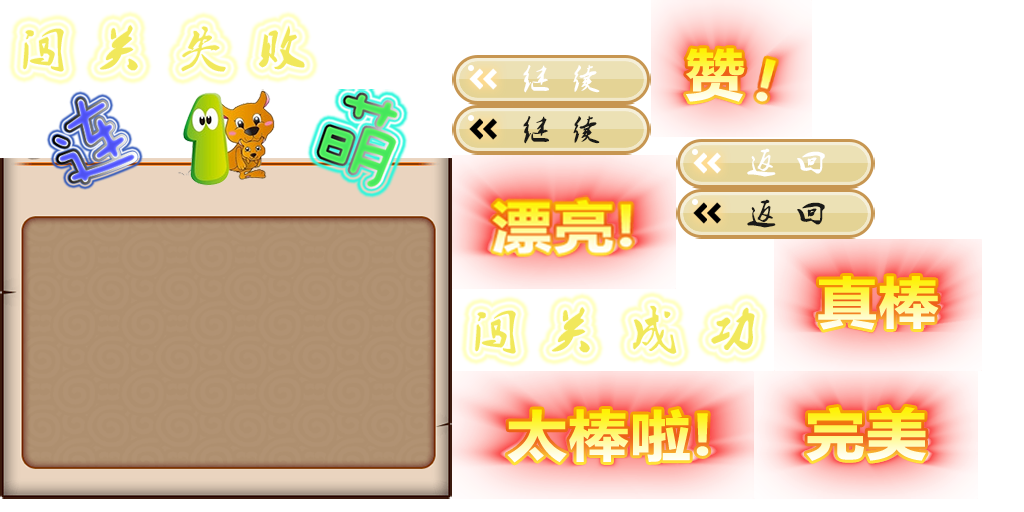
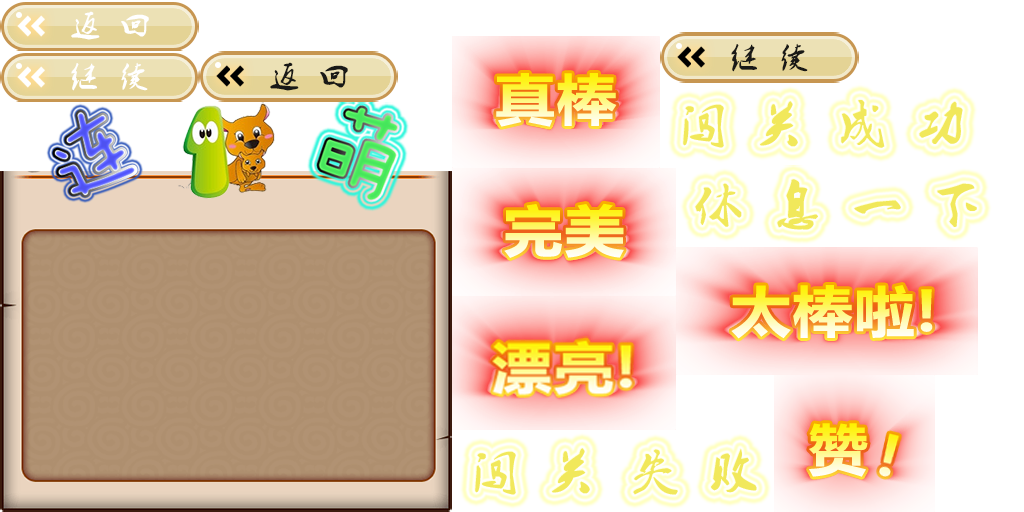
finish the game main logic

diff --git a/core/src/com/july/lineclear/AssetManager.java b/core/src/com/july/lineclear/AssetManager.java
@@ -5,6 +5,7 @@ import java.util.Map;
 import java.util.Vector;
 
 import com.badlogic.gdx.Gdx;
+import com.badlogic.gdx.files.FileHandle;
 import com.badlogic.gdx.graphics.Color;
 import com.badlogic.gdx.graphics.Texture;
 import com.badlogic.gdx.graphics.Texture.TextureFilter;
@@ -12,6 +13,7 @@ import com.badlogic.gdx.graphics.g2d.BitmapFont;
 import com.badlogic.gdx.graphics.g2d.TextureAtlas;
 import com.badlogic.gdx.graphics.g2d.TextureRegion;
 import com.badlogic.gdx.scenes.scene2d.ui.Label.LabelStyle;
+import com.badlogic.gdx.utils.Pools;
 
 /**
  * resource management class. Use single instance design model
@@ -64,14 +66,18 @@ public class AssetManager {
 	public TextureRegion resultBg;
 	public TextureRegion succeed;
 	public TextureRegion failed;
+	public TextureRegion rest;
 	public TextureRegion[] continueBtn;
 	public TextureRegion[] returnBtn;
 	public TextureRegion[] zan;
 
 	// recored
-	public int maxLevel = 30;
+	public boolean isSounding;
+	public int maxLevel = 1;
 	public int currentLevel = 1;
+	public int totalLevel = 64;
 	public Map<Integer, Vector<Integer>> record;
+	public FileHandle file;
 
 	private AssetManager() {
 
@@ -136,8 +142,8 @@ public class AssetManager {
 		for (int i = 3; i < 6; i++)
 			hLine[i - 3] = atlas[1].findRegion("l", i);
 
-		animals = new TextureRegion[10];
-		for (int i = 1; i < 11; i++)
+		animals = new TextureRegion[16];
+		for (int i = 1; i <= 16; i++)
 			animals[i - 1] = atlas[1].findRegion("" + i);
 
 		/*
@@ -147,6 +153,7 @@ public class AssetManager {
 				Gdx.files.internal("gfx/dialog/dialog.pack"));
 		resultBg = atlas[2].findRegion("result");
 		succeed = atlas[2].findRegion("succeed");
+		rest = atlas[2].findRegion("rest");
 		failed = atlas[2].findRegion("fail");
 		continueBtn = new TextureRegion[2];
 		continueBtn[0] = atlas[2].findRegion("continue", 0);
@@ -158,8 +165,13 @@ public class AssetManager {
 		for (int i = 0; i < 5; i++)
 			zan[i] = atlas[2].findRegion("zan", i);
 
+		file = Gdx.files.local("data/.score");
 		record = new HashMap<Integer, Vector<Integer>>();
-		loadRecord();
+		if (file.exists()) {
+			loadRecord();
+		} else {
+			initRecord();
+		}
 	}
 
 	public void loadMusic() {
@@ -167,28 +179,49 @@ public class AssetManager {
 	}
 
 	public void loadRecord() {
-		maxLevel = 30;
-		currentLevel = 30;
-		for (int i = 0; i < 48; i++) {
-			Vector<Integer> v = new Vector<Integer>();
-			v.add((i + 1) * 2000);
-			v.add((int) (Math.random() * 3 + 1));
-			record.put(i + 1, v);
+		try {
+			String strs = file.readString();
+			String str[] = strs.split("\\n");
+			String tag[] = str[0].split("\\$");
+			isSounding = Boolean.parseBoolean(tag[0]);
+			maxLevel = Integer.parseInt(tag[1]);
+			currentLevel = maxLevel;
+			totalLevel = Integer.parseInt(tag[2]);
+			for (int i = 1; i <= totalLevel; i++) {
+				tag = str[i].split("\\$");
+				Vector<Integer> v = new Vector<Integer>();
+				v.add(Integer.parseInt(tag[0]));
+				v.add(Integer.parseInt(tag[1]));
+				record.put(i, v);
+			}
+		} catch (Exception e) {
+			initRecord();
 		}
 	}
 
+	public void initRecord() {
+		StringBuffer temp = Pools.obtain(StringBuffer.class);
+		temp.append("true$1$64\n");
+		for (int i = 1; i <= 64; i++) {
+			temp.append("0$0\n");
+		}
+		file.writeString(temp.toString(), false);
+		loadRecord();
+	}
+
 	public void updateRecord(int level, int score, int star) {
-		currentLevel++;
-		if (level == maxLevel && level < 48)
+		if (currentLevel < totalLevel)
+			currentLevel++;
+		if (level == maxLevel && level < totalLevel)
 			maxLevel++;
 
 		boolean updated = false;
-		if (record.get(level).indexOf(0) < score) {
+		if (record.get(level).get(0) < score) {
 			record.get(level).setElementAt(score, 0);
 			updated = true;
 		}
 
-		if (record.get(level).indexOf(1) < star) {
+		if (record.get(level).get(1) < star) {
 			record.get(level).setElementAt(star, 1);
 			updated = true;
 		}
@@ -198,7 +231,13 @@ public class AssetManager {
 	}
 
 	public void saveRecord() {
-
+		StringBuffer temp = Pools.obtain(StringBuffer.class);
+		temp.append(isSounding + "$" + maxLevel + "$" + totalLevel + "\n");
+		for (int i = 1; i <= totalLevel; i++) {
+			temp.append(record.get(i).get(0) + "$" + record.get(i).get(1)
+					+ "\n");
+		}
+		file.writeString(temp.toString(), false);
 	}
 
 	public void dispose() {

diff --git a/core/src/com/july/lineclear/GameScreen.java b/core/src/com/july/lineclear/GameScreen.java
@@ -51,7 +51,7 @@ public class GameScreen extends ScreenAdapter {
 		bestNum = AssetManager.getInstance().record.get(level).get(0);
 		starNum = AssetManager.getInstance().record.get(level).get(1);
 
-		baseTime = 200 - level * 10;
+		baseTime = 80 - level * 50f / AssetManager.getInstance().totalLevel;
 		time = baseTime;
 	}
 
@@ -110,7 +110,7 @@ public class GameScreen extends ScreenAdapter {
 		timeFill = AssetManager.getInstance().timeFill[1];
 
 		line = new Array<Vector2>();
-		gameCells = new GameCellGroup();
+		gameCells = new GameCellGroup(levelNum);
 		gameCells.addListener(new ClickListener() {
 			@Override
 			public void clicked(InputEvent event, float x, float y) {
@@ -182,10 +182,13 @@ public class GameScreen extends ScreenAdapter {
 			count++;
 		else
 			count = 1;
+
+		if (count >= 3 && time < baseTime)
+			time += Gdx.graphics.getDeltaTime();
 		// update the star number
-		if (count >= 8)
+		if (count >= 9)
 			starNum = 3;
-		else if (count >= 5) {
+		else if (count >= 6) {
 			if (starNum < 2)
 				starNum = 2;
 		} else if (count >= 3) {
@@ -193,8 +196,8 @@ public class GameScreen extends ScreenAdapter {
 				starNum = 1;
 		}
 
-		countTime = 3;
-		scoreNum += 100 * count;
+		countTime = 2;
+		scoreNum += 50 * count;
 		score.setText("" + scoreNum);
 		if (scoreNum > bestNum) {
 			bestNum = scoreNum;

diff --git a/core/src/com/july/lineclear/ResultDialog.java b/core/src/com/july/lineclear/ResultDialog.java
@@ -8,6 +8,7 @@ import com.badlogic.gdx.scenes.scene2d.InputEvent;
 import com.badlogic.gdx.scenes.scene2d.Stage;
 import com.badlogic.gdx.scenes.scene2d.ui.Image;
 import com.badlogic.gdx.scenes.scene2d.ui.Label;
+import com.badlogic.gdx.scenes.scene2d.utils.Align;
 import com.badlogic.gdx.scenes.scene2d.utils.ClickListener;
 
 public class ResultDialog {
@@ -48,9 +49,10 @@ public class ResultDialog {
 		dialogStage.addActor(returnBtn);
 
 		scoreLabel = new Label("", AssetManager.getInstance().scoreStyle);
-		scoreLabel.setBounds(Constants.resultX, Constants.btnY
+		scoreLabel.setBounds(Constants.resultX, Constants.btnY + 10
 				+ Constants.btnHeight, Constants.resultWidth,
 				Constants.infoHeight);
+		scoreLabel.setAlignment(Align.center);
 		dialogStage.addActor(scoreLabel);
 
 	}
@@ -65,7 +67,7 @@ public class ResultDialog {
 			title = AssetManager.getInstance().failed;
 			break;
 		case PAUSE:
-			title = AssetManager.getInstance().failed;
+			title = AssetManager.getInstance().rest;
 			break;
 		}
 	}

diff --git a/core/src/com/july/lineclear/GameCellGroup.java b/core/src/com/july/lineclear/GameCellGroup.java
@@ -15,10 +15,13 @@ public class GameCellGroup extends Group {
 	int lastRow = EMPTY;
 	int lastColumn = EMPTY;
 
-	public GameCellGroup() {
+	public GameCellGroup(int level) {
+		int max = 10 + level / 8;
+		if (max > 16)
+			max = 16;
 		Array<Integer> array = new Array<Integer>();
 		for (int i = 0; i < 28; i++) {
-			array.add((int) (Math.random() * 10));
+			array.add((int) (Math.random() * max));
 		}
 		array.addAll(array);
 		array.shuffle();
@@ -304,12 +307,12 @@ public class GameCellGroup extends Group {
 		int u = getUpIndexOfColumn(minRow, maxRow, maxColumn);
 		if (u == maxRow)
 			return false;
-		int i = minRow ;
-		do{
+		int i = minRow;
+		do {
 			i++;
 			if (cells[i][minColumn].getType() != EMPTY)
 				return false;
-		}while (i < u);
+		} while (i < u);
 		while (i < maxRow) {
 			if (judgeRow(i, maxColumn, minColumn))
 				return initArrayV(array, i, maxRow, maxColumn, minRow,

diff --git a/core/src/com/july/lineclear/LevelScreen.java b/core/src/com/july/lineclear/LevelScreen.java
@@ -32,7 +32,8 @@ public class LevelScreen extends ScreenAdapter implements GestureListener {
 		stage = new Stage();
 		bg = AssetManager.getInstance().menuBg;
 
-		group = new LevelCellGroup(1 + 8 * currentPage);
+		currentPage = (AssetManager.getInstance().maxLevel - 1) / 8;
+		group = new LevelCellGroup(currentPage * 8 + 1);
 		stage.addActor(group);
 		Gdx.input.setInputProcessor(new GestureDetector(this));
 		Gdx.input.setCatchBackKey(true);
@@ -94,7 +95,7 @@ public class LevelScreen extends ScreenAdapter implements GestureListener {
 	public boolean fling(float velocityX, float velocityY, int button) {
 		// TODO Auto-generated method stub
 		if (velocityX < 5f) {
-			if (currentPage != 5) {
+			if (currentPage != AssetManager.getInstance().totalLevel / 8 - 1) {
 				++currentPage;
 				nextGroup = new LevelCellGroup(1 + currentPage * 8);
 				stage.addActor(nextGroup);

diff --git a/core/src/com/july/lineclear/Constants.java b/core/src/com/july/lineclear/Constants.java
@@ -67,7 +67,7 @@ public class Constants {
 	static float resultHeight = resultWidth * 408f / 450f;
 	static float resultX = (width - resultWidth) / 2f;
 	static float resultY = (height - resultHeight) / 2f;
-	static float starX = resultX + (resultWidth - 5 * starWidth) / 2;
+	static float starX = resultX + (resultWidth - 4 * starWidth) / 2;
 	static float starAddX = starWidth * 1.5f;
 	static float starY = resultY + (340 - 2* starHeight) / 405f * resultHeight;
 	static float infoWidth = 320f / 450f * resultWidth;

diff --git a/core/src/com/july/lineclear/TipGroup.java b/core/src/com/july/lineclear/TipGroup.java
@@ -23,7 +23,7 @@ public class TipGroup extends Group {
 	}
 
 	public void init(int count, float x, float y) {
-		scoreLabel = new Label(100 * count + "",
+		scoreLabel = new Label(50 * count + "",
 				AssetManager.getInstance().style);
 		scoreLabel.setPosition(0, 0);
 		scoreLabel.setSize(Constants.cellWidth, Constants.cellHeight);
